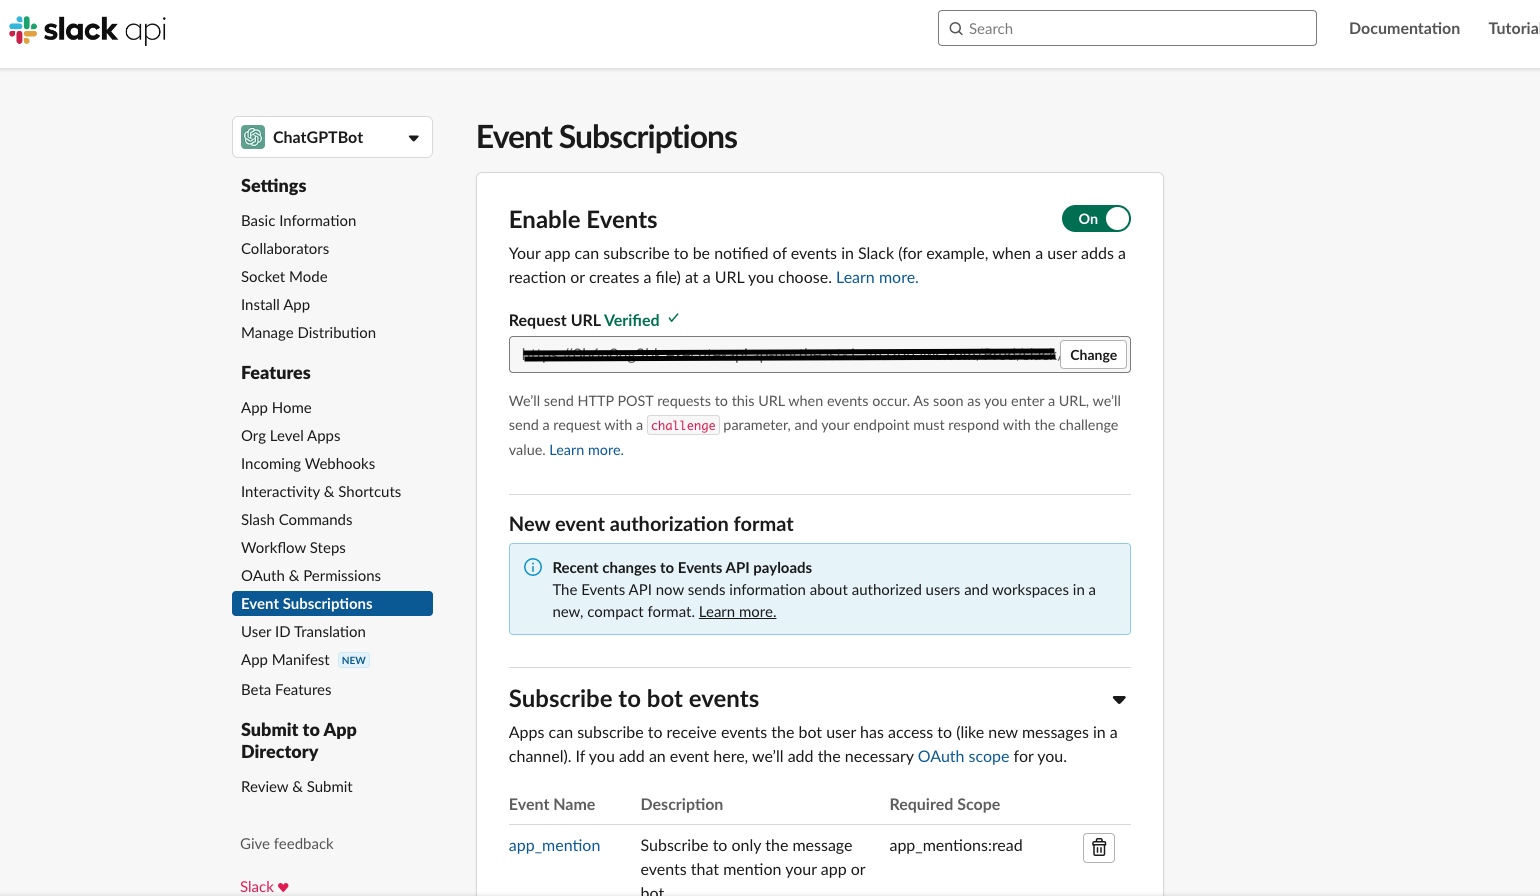
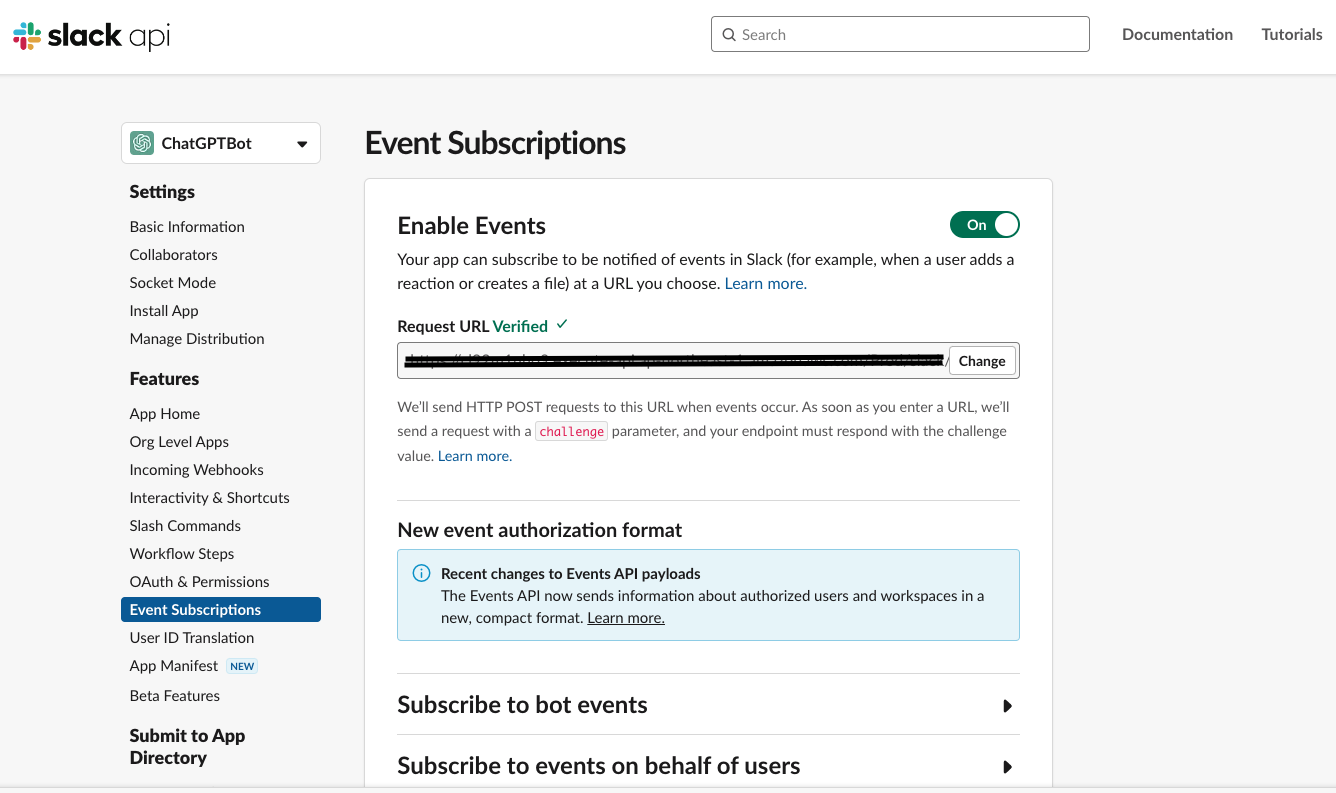
BotにDMの場合はメンションを不要にした

diff --git a/app/app.js b/app/app.js
@@ -1,8 +1,8 @@
 
 const { App, ExpressReceiver } = require("@slack/bolt");
 const { Configuration, OpenAIApi, ChatCompletionRequestMessageRoleEnum } = require("openai");
-
 const accessToken = process.env.SLACK_BOT_TOKEN
+const slackBotId = process.env.SLACK_BOT_ID;
 
 const expressReceiver = new ExpressReceiver({
     signingSecret: process.env.SLACK_SIGNING_SECRET ,
@@ -26,52 +26,55 @@ if (process.env.IS_LOCAL === "true") {
 // global middleware。すべての event action command の前に実行される。
 app.use(async ({ context, next }) => {
     // リトライされたイベントであればスキップすべきかどうか判断する
-    if (context.retryNum && shouldSkip(contenxt)) {
+    if (context.retryNum) {
         console.log("Retry Skip", context.retryNum);
         return;
     }
     await next();
 })
 
-app.event("app_mention", async ({ event, client, say }) => {
-    console.log("app_mention start");
+// すべてのメッセージを受け取る
+app.message(async ({ event, client, message, say }) => {
+    console.log("start");
 
     // スレッドのトップのメッセージであればthread_ts、スレッド中のメッセージであればtsを取得する。
     const threadTs = event.thread_ts ? event.thread_ts : event.ts;
     try {
-        // スレッドのメッセージを取得
+        const isMentionedBot = message.text.includes(`<@${slackBotId}>`);
+        const isDM = message.channel_type === 'im';
+        if (!isMentionedBot && !isDM) {
+            // bot宛のメンションがない場合、botのDMでない場合は何もしない
+            return
+        }
+    
+        // スレッドのメッセージをすべて取得
         const threadMessagesResponse = await client.conversations.replies({
             channel: event.channel,
             ts: threadTs,
         });
         const threadMessages = threadMessagesResponse.messages
 
-        const slackBotId = process.env.SLACK_BOT_ID;
-
         // OpenAI APIに渡すためのメッセージオブジェクトを作成する。
         const mentionMessages =
             threadMessages.map(message => {
-                // メンション付きのものだけを抽出する。ここら辺は好み。
-                if(message.text?.includes(`<@${slackBotId}>`) || message.text?.includes(`<@${message.user}>`)){
-                    const role = message.user === slackBotId ? ChatCompletionRequestMessageRoleEnum.Assistant : ChatCompletionRequestMessageRoleEnum.User
-                    return { role: role, content: message.text }
-                };
+                const role = message.user === slackBotId ? ChatCompletionRequestMessageRoleEnum.Assistant : ChatCompletionRequestMessageRoleEnum.User
+                return { role: role, content: message.text }
             }).filter(e => e) // undefinedを除く
 
         // OpenAIにリクエストします
-        const message = await callOpenai(mentionMessages);
+        const reply = await callOpenai(mentionMessages);
 
         // Slack APIを呼んで回答を送信
         await say(
             {
-                text:`<@${event.user}>\n ${message}`,
+                text:`<@${event.user}>\n ${reply}`,
                 thread_ts:　threadTs
             }
         );
 
-        console.log("app_mention success");
+        console.log("success");
     } catch (e) {
-        console.log("app_mention error", e.message);
+        console.log("error", e);
         await say(
             {
                 text:`<@${event.user}>\n 不具合が発生しました。開発者にお問い合わせください。`,

diff --git a/app/lambda.js b/app/lambda.js
@@ -3,16 +3,16 @@ const {app,expressReceiver} = require("./app");
 
 // 初回はURL Verification（サーバの存在確認用）のリクエストがきますので、それに対応するコード
 // See. https://api.slack.com/apis/connections/events-api#the-events-api__subscribing-to-event-types__events-api-request-urls__request-url-configuration--verification
-//app.receiver.router.post("/slack/events", async (req, res) => {
-//    const { type, challenge } = req.body;
-//    if (type === 'url_verification') {
-//        console.log("Verification Success");
-//        res.send(challenge);
-//    } else {
-//        console.log(req.body);
-//        res.sendStatus(200);
-//    }
-//});
+app.receiver.router.post("/slack/events", async (req, res) => {
+    const { type, challenge } = req.body;
+    if (type === 'url_verification') {
+        console.log("Verification Success");
+        res.send(challenge);
+    } else {
+        console.log(req.body);
+        res.sendStatus(200);
+    }
+});
 
 const server = serverlessExpress.createServer(expressReceiver.app)
 exports.handler = (event, context) => serverlessExpress.proxy(server, event, context)

diff --git a/README.md b/README.md
@@ -60,6 +60,25 @@ Slackアプリを作成する
 
 https://api.slack.com/apps
 
+OAuth & Permissions から Required Scope の設定
+| 設定値 | 概要 |
+|:----------------| :-------------------------------|
+| app_mentions:read | botが参加しているチャンネル内で@ChatGPTBotに直接言及したメッセージを取得する |
+| channels:history | botが参加しているパブリックチャンネルのメッセージを閲覧できる |
+| channels:join | パブリックチェンネルに参加できる |
+| chat:write | botがメッセージを書き込むことができる |
+| groups:history | botが参加しているプライベートチャンネルのメッセージを閲覧できる |
+| im:history | botが参加しているDMのメッセージを閲覧できる |
+
+Event Subscriptions から Subscribe to bot events の設定
+| 設定値 | 概要 |
+|:----------------| :-------------------------------|
+| message.im | DM内でメッセージを送った際のイベント |
+| message.groups | プライベートチャンネル内でメッセージを送った際のイベント |
+| message.channels | パブリックチャンネル内でメッセージを送った際のイベント |
+| ~~app_mention~~ | メンション付きでメッセージを送った際のイベント |
+
+
 ![Event Subscriptions](./slack_app.png "Event Subscriptions")
 ※ ローカルで動かしたい場合は、「Enable Socket Mode」を有効にしてください。
 
